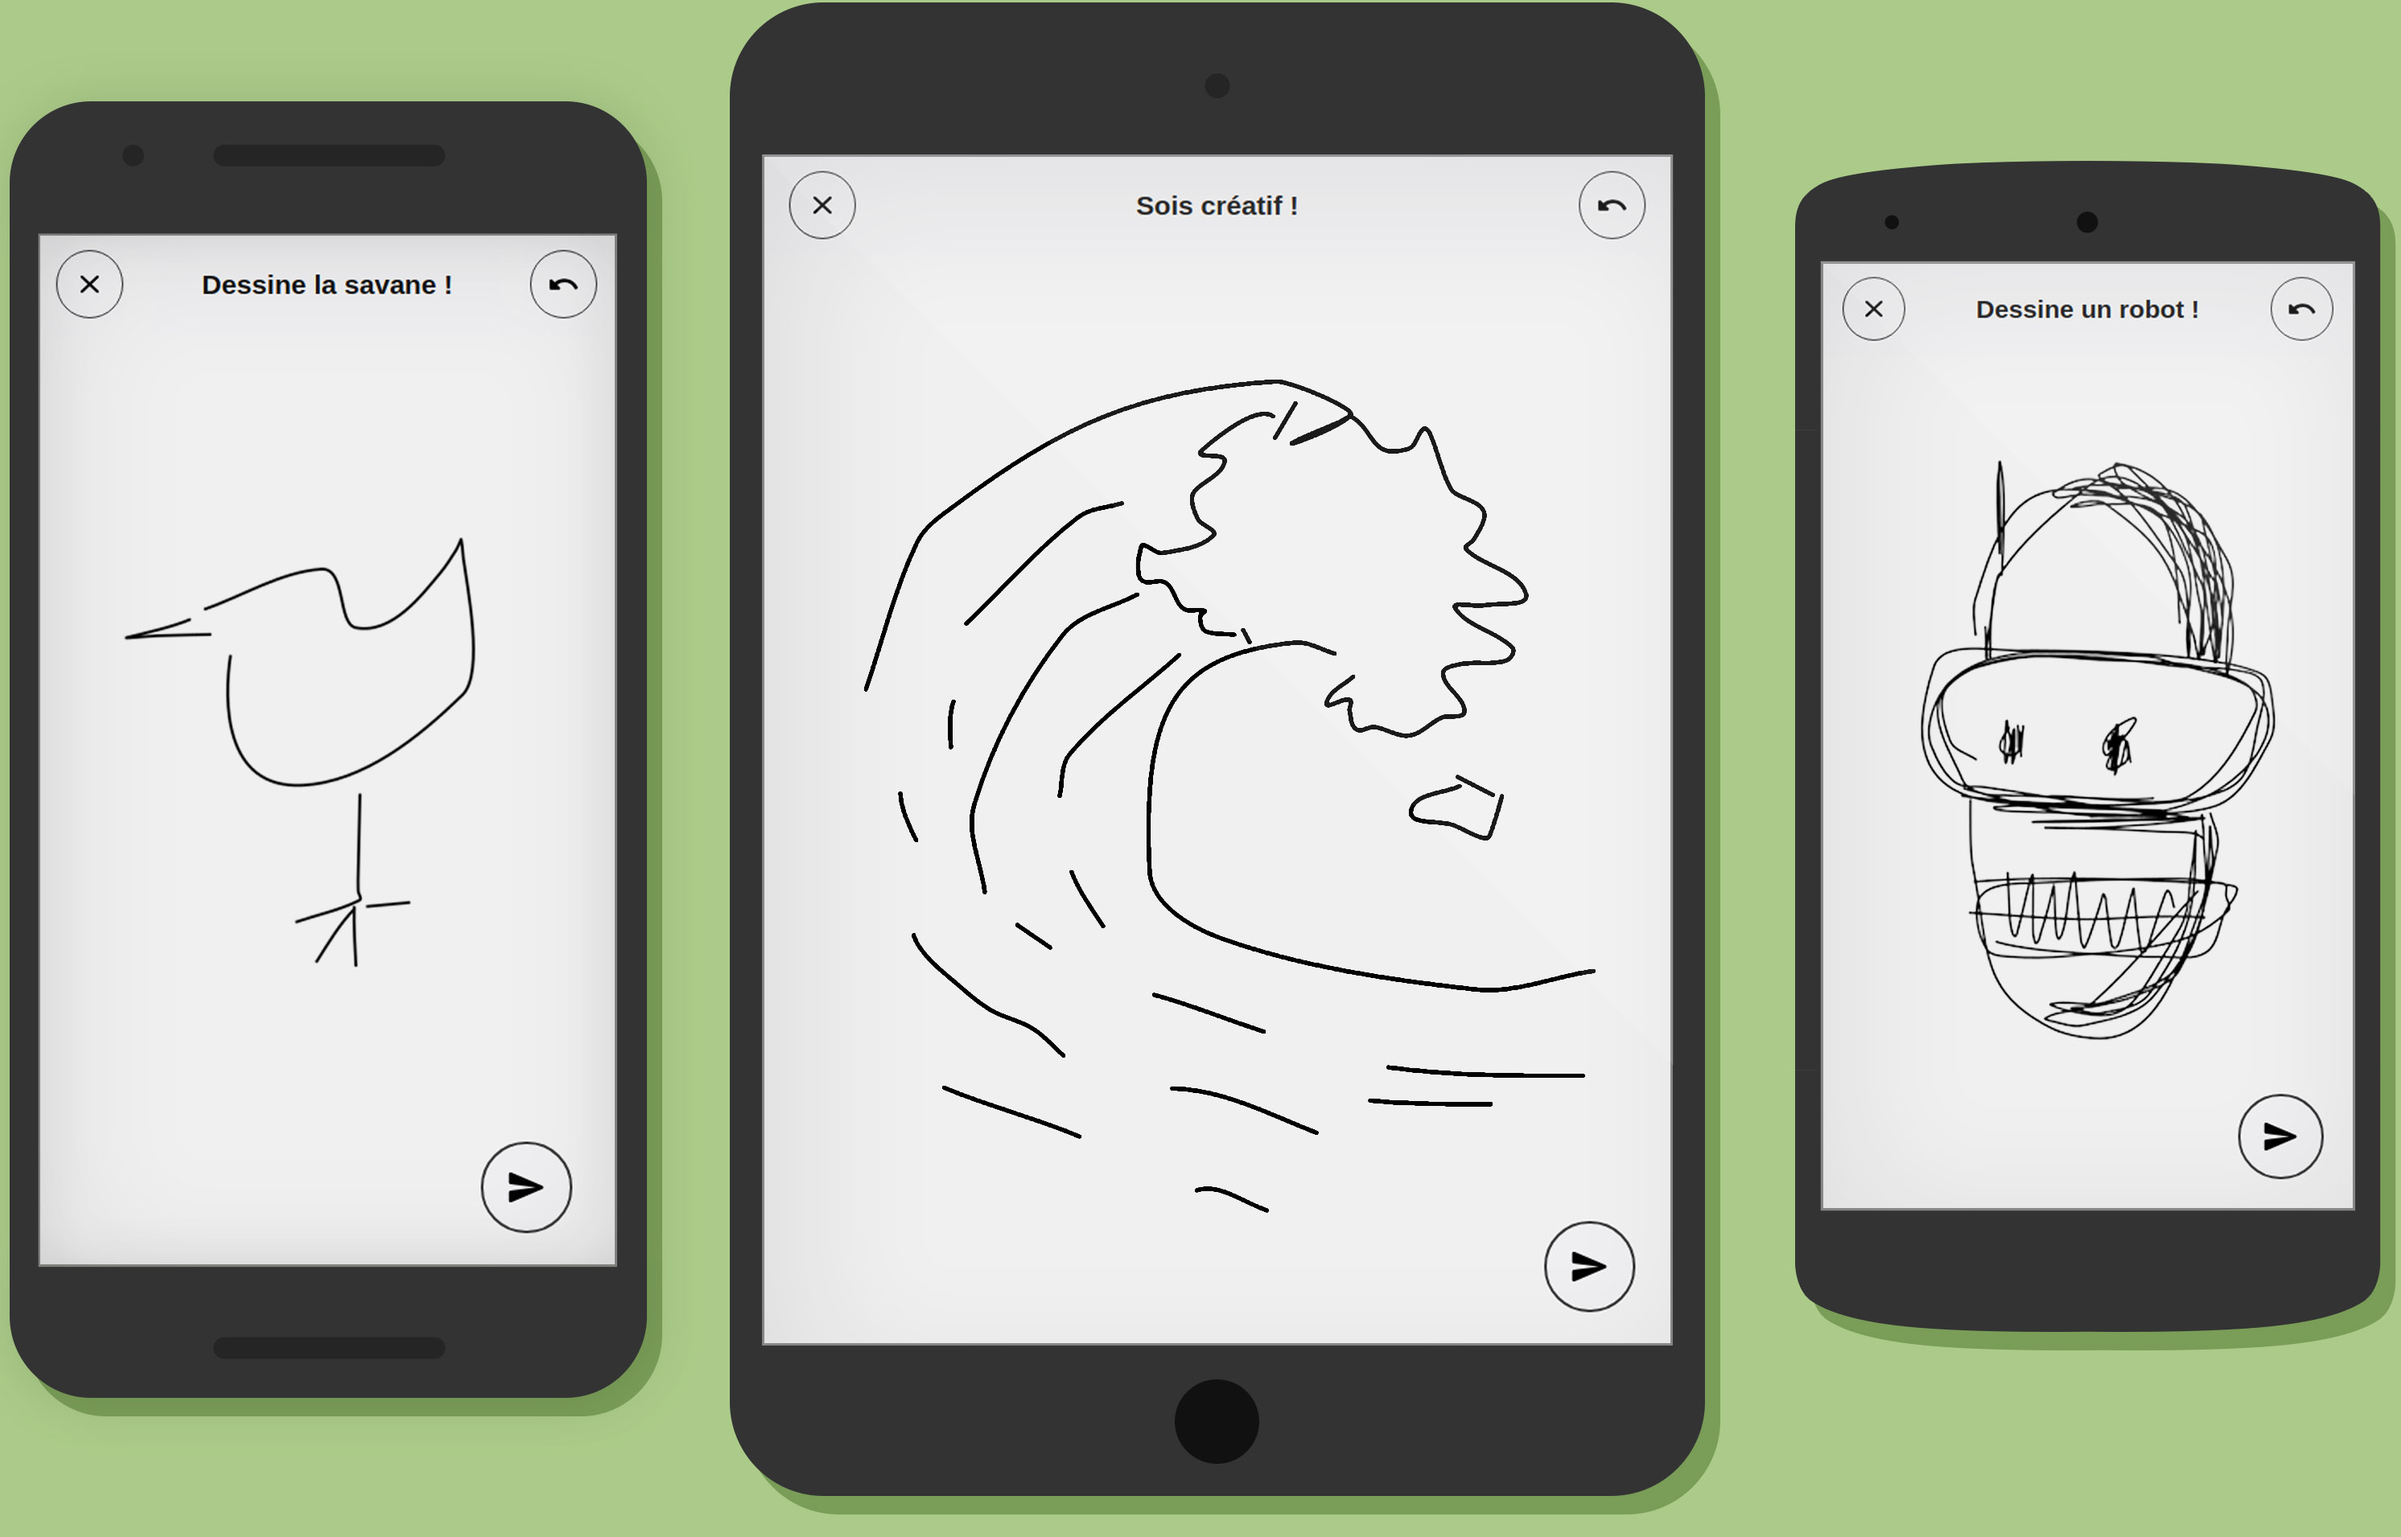
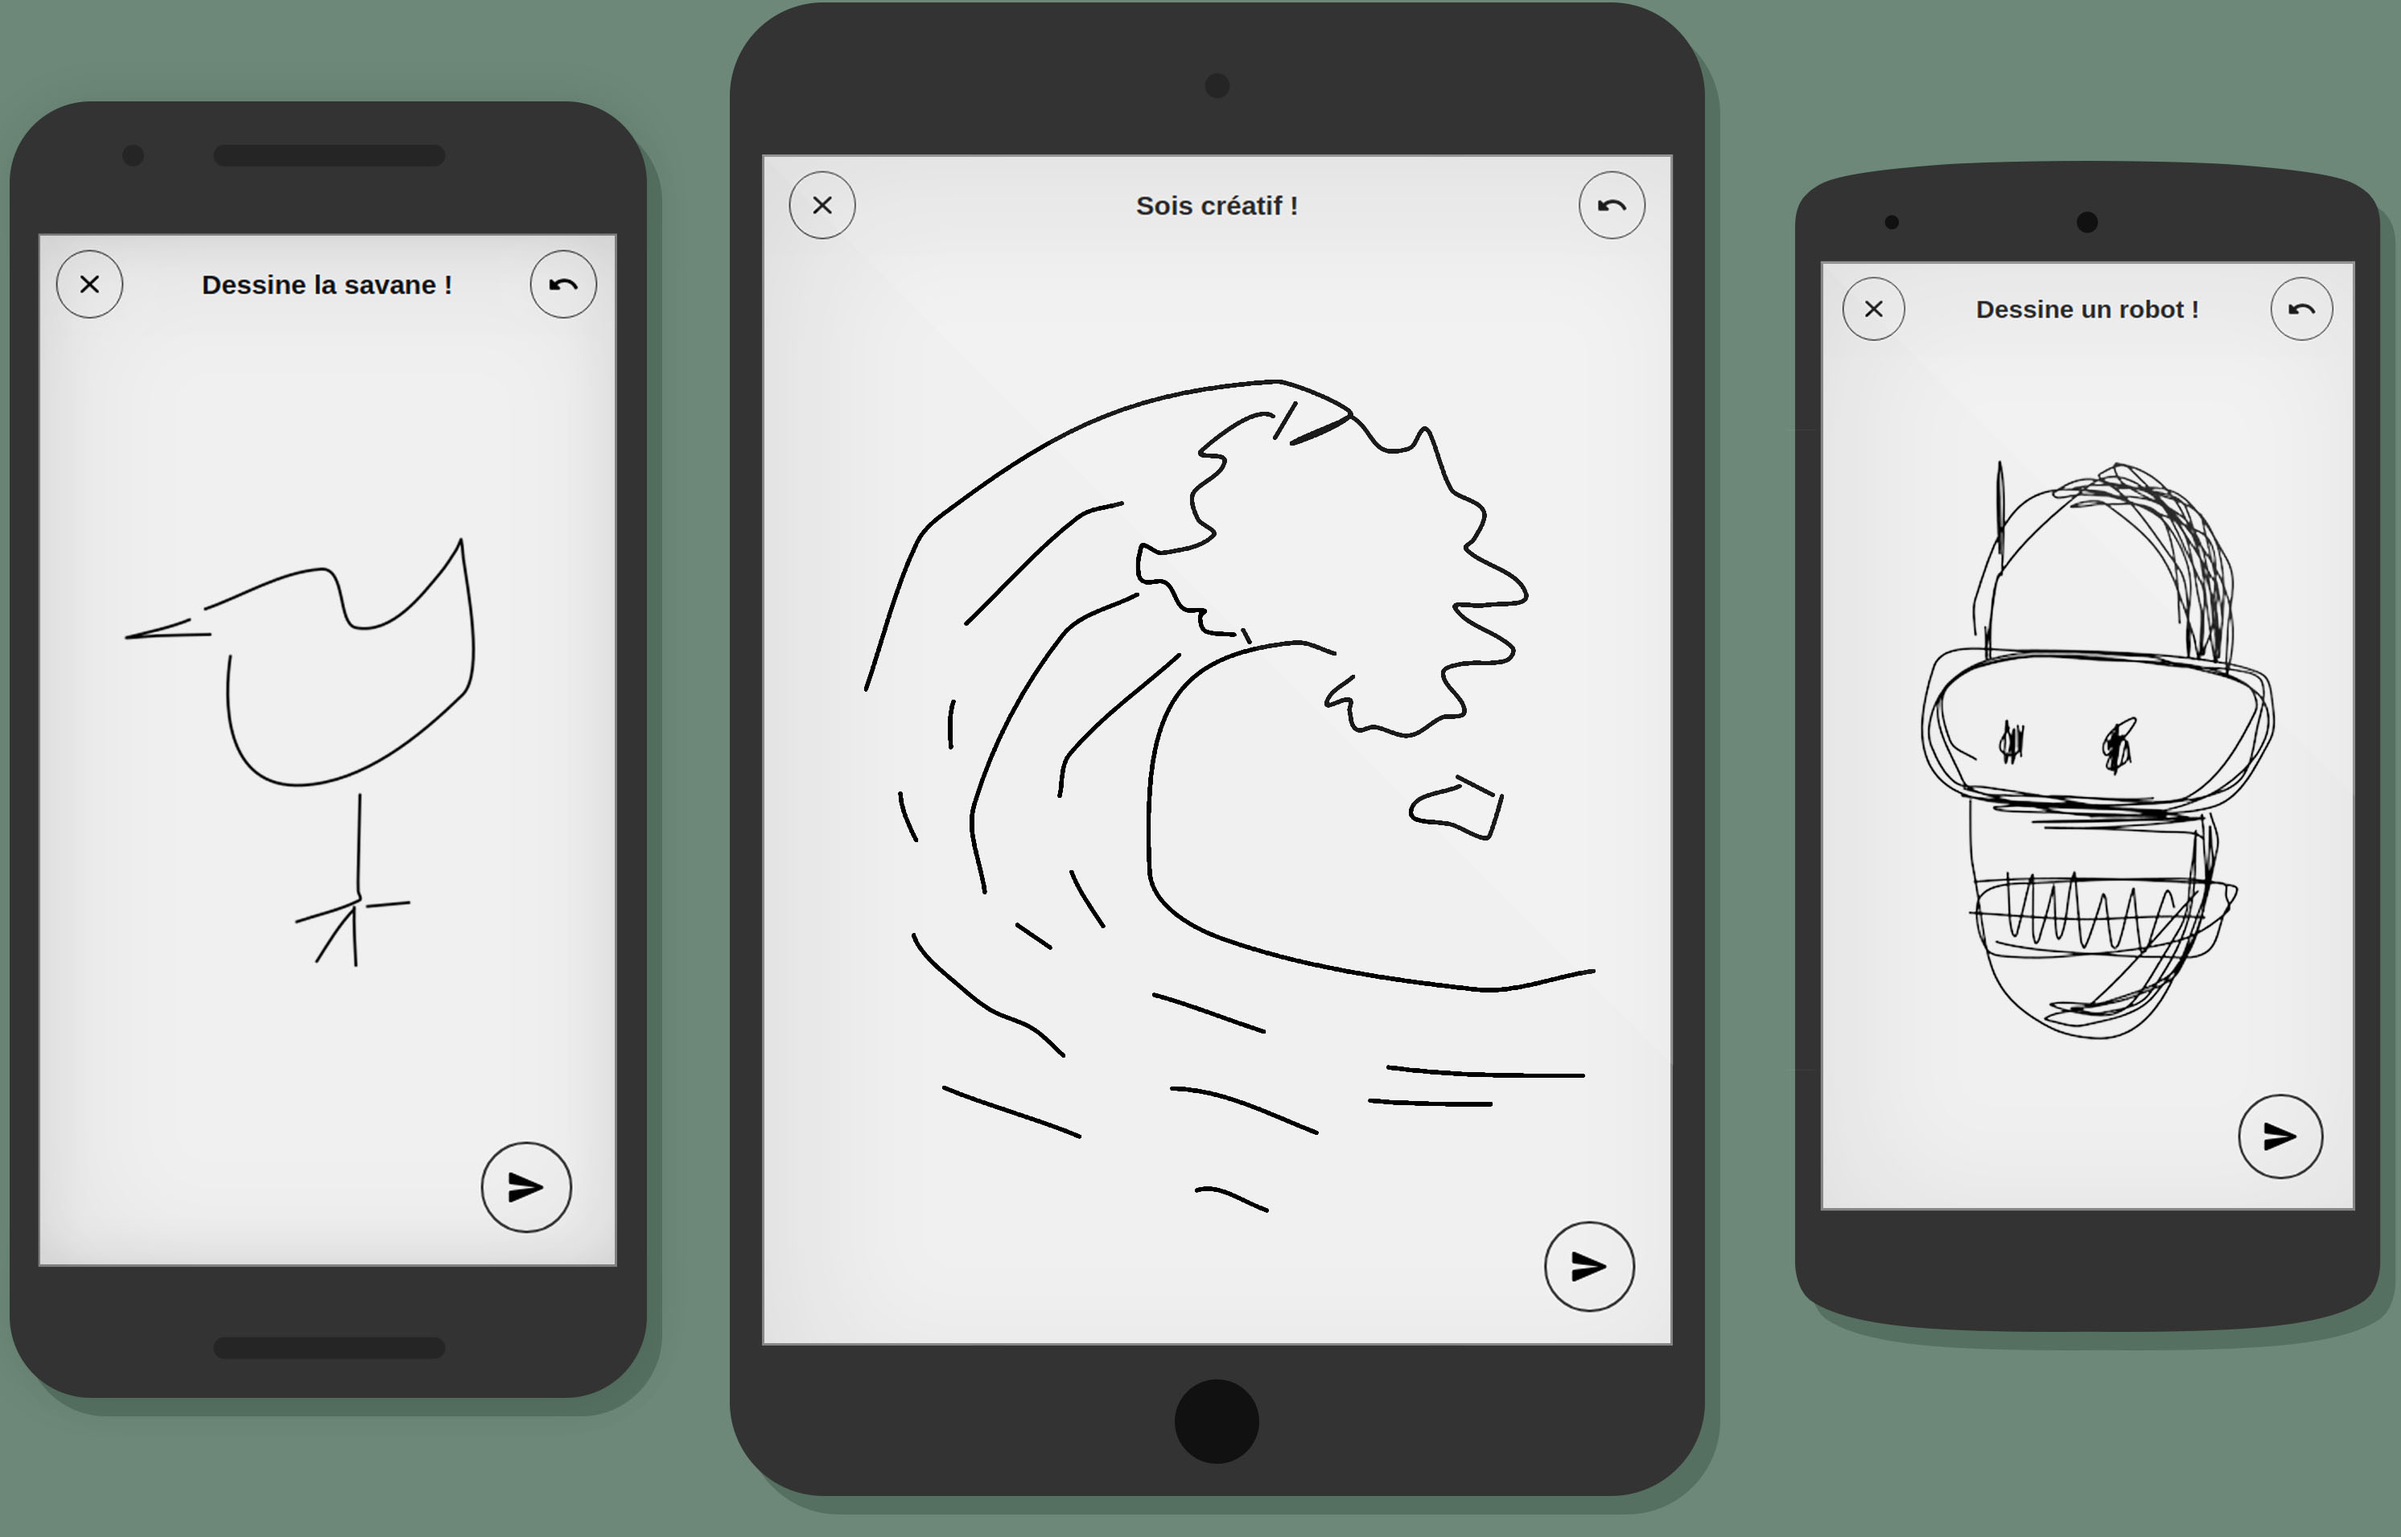
New : color scheme & small layouts

Changed region(s): [[0.0, 0.0, 1.0, 1.0]]

diff --git a/src/pages/index.scss b/src/pages/index.scss
@@ -1,6 +1,17 @@
 @import './../components/styles';
 
 $darkColor: black;
+.BasicWhiteBack {
+  background-color: rgb(240, 240, 240);
+}
+
+.ModernGreenBack {
+  background-color: $modernGreen;
+}
+
+.ModernGreenText {
+  color: $modernGreen;
+}
 
 .ResponsiveContainer {
   display: flex;
@@ -212,7 +223,7 @@ $darkColor: black;
       h2 {
         font-size: 2em;
         font-weight: 600;
-        color: $accentColor;
+        color: $modernGreenAccent;
       }
 
       p {
@@ -276,8 +287,8 @@ $darkColor: black;
         margin: 1em;
       }
       @include breakpoint(normal) {
-        min-width: 20em;
-        min-height: 10em;
+        min-width: 12em;
+        min-height: 12em;
         margin: 3em;
       }
     }
@@ -357,23 +368,36 @@ $darkColor: black;
   }
 
   &.White {
-    font-size: 2em;
+    font-size: 1.5em;
 
+    @include breakpoint(small) {
+      font-size: 1.2em;
+    }
+    font-weight: 400;
+    background-color: transparent;
+    border-bottom: solid 2px $accentColorIdle;
+    color: black;
+    margin: auto;
+    margin-bottom: 0.5em;
+
+    &.Strong {
+      border-bottom: solid 4px black;
+      font-size: 2em;
+      @include breakpoint(small) {
+        font-size: 1.8em;
+      }
+      font-weight: 400;
+    }
+    
+  }
+
+  &.Accent {
+    border-bottom: solid 4px black;
+    font-size: 2em;
     @include breakpoint(small) {
       font-size: 1.8em;
     }
     font-weight: 400;
-    background-color: transparent;
-    border-bottom: solid 2px black;
-    color: black;
-    margin: auto;
-    margin-bottom: 0.5em;
-  }
-
-  &.Accent {
-    background-color: #abcb89;
-    border-radius: 5px;
-    color: white;
   }
 }
 
@@ -384,7 +408,7 @@ $darkColor: black;
 }
 
 .WordsCloud {
-  $shadowColor: #799d59; // Darker green (more sat, less bright)
+  $shadowColor: $accentColorIdle; // Darker green (more sat, less bright)
   display: flex;
   flex-wrap: wrap;
   justify-content: center;
@@ -564,14 +588,15 @@ $darkColor: black;
     text-decoration: none;
     border: none;
     background-color: transparent;
-    background-color: $accentColor;
+    background-color: $modernGreen;
     color: white;
     @include basicTransition();
     &:hover {
       outline: 0;
       @include basicTransition();
       cursor: pointer;
-      background-color: $accentLight;
+      background-color: $modernGreenAccent;
+      // background-color: $accentLight;
     }
 
     &:visited {

diff --git a/src/pages/about.js b/src/pages/about.js
@@ -41,7 +41,7 @@ export default function AboutPage({ data, pageContext: { locale }, location }) {
           </div>
 
           <div className="FullPageContainer">
-            <h2 className="Punchline Accent">{LOCAL.features}</h2>
+            <h2 className="Punchline White Strong">{LOCAL.features}</h2>
           </div>
 
           <div className="FullPageContainer">
@@ -74,7 +74,7 @@ export default function AboutPage({ data, pageContext: { locale }, location }) {
           <div
           className={'FullPageContainer'}
         >
-          <h3 className="Punchline White">{LOCAL.useCasesTitle}</h3>
+          <h3 className="Punchline White Strong">{LOCAL.useCasesTitle}</h3>
                 <div className="WordsCloud">
                   <>
                     {LOCAL.useCases.map(wordCloud => {
@@ -88,8 +88,8 @@ export default function AboutPage({ data, pageContext: { locale }, location }) {
             <div className={'ResponsiveContainer'}>
               <div className={'Inside'}>
                 <div className="ShowcasePart Column">
-                  <div className={'Text Centered'}>
-                    <h2 className="Punchline White" style={{ color: 'black' }}>
+                  <div>
+                    <h2 className="Punchline White Strong">
                       {LOCAL.clientsTitle}
                     </h2>
                   </div>

diff --git a/src/layout/BasicPage.scss b/src/layout/BasicPage.scss
@@ -98,7 +98,7 @@
       margin-top: 4rem;
       display: flex;
       flex-wrap: wrap;
-      filter: grayscale(1);
+      //filter: grayscale(1);
 
       justify-content: space-between;
       @include breakpoint(small) {
@@ -209,9 +209,10 @@
     font-weight: 400;
   }
   h4 {
-    font-size: 1.3em;
+    font-size: 1.6em;
     font-weight: 600;
-    margin-bottom: 0.4em;
+    margin: 0.6;
+    margin-bottom: 1em;
   }
   h5 {
     margin: 0;
@@ -245,30 +246,30 @@
   background-position: center center;
 
   .overlay {
-    background-color: $accentLight;
+    background-color: $modernGreen;
     @include breakpoint(normal) {
-      padding: 7rem;
+      padding: 4rem;
     }
     @include breakpoint(small) {
-      padding: 4rem;
+      padding: 2rem;
       padding-left: 1rem;
       padding-right: 1rem;
     }
 
     &Smaller {
       @include breakpoint(normal) {
-        padding: 7rem;
+        padding: 4rem;
       }
       @include breakpoint(small) {
-        padding: 3rem;
+        padding: 1rem;
       }
     }
 
     .punchline {
       animation: fadein 1s;
-      font-size: 4rem;
+      font-size: 3rem;
       @include breakpoint(small) {
-        font-size: 3rem;
+        font-size: 2rem;
       }
       padding-bottom: 1rem;
       color: white;

diff --git a/src/components/wip/BottomBar/BottomBar.scss b/src/components/wip/BottomBar/BottomBar.scss
@@ -4,7 +4,7 @@
 .BottomBar {
 
   background-color: #383838;
-  color: $accentColor;
+  color: $modernGreenDarkMode;
   font-weight: 600;
   text-align: left;
   align-items: center;
@@ -39,15 +39,15 @@
   a {
     margin-right: 1rem;
     text-align: center;
-    $underlineColor: $accentColor;
+    $underlineColor: $modernGreenDarkMode;
     text-decoration: none;
     border: none;
     background-color: transparent;
-    border: solid 4px $accentColor;
+    border: solid 4px $modernGreenDarkMode;
     color: white;
     @include basicTransition();
     &:hover {
-      background-color: $accentColor;
+      background-color: $modernGreenDarkMode;
       outline: 0;
       @include basicTransition();
     }
@@ -65,10 +65,10 @@
 
     @keyframes shadow-pulse2 {
       0% {
-        box-shadow: 0 0 0 0px rgba($accentColor, 1);
+        box-shadow: 0 0 0 0px rgba($modernGreenDarkMode, 1);
       }
       100% {
-        box-shadow: 0 0 0 8px rgba($accentColor, 0);
+        box-shadow: 0 0 0 8px rgba($modernGreenDarkMode, 0);
       }
     }
 

diff --git a/src/pages/index.js b/src/pages/index.js
@@ -72,8 +72,7 @@ export default function Index({ data, pageContext: { locale }, location }) {
         </div>
 
         <div
-          className={'ResponsiveContainer'}
-          style={{ backgroundColor: '#aac989' }}
+          className={'ResponsiveContainer ModernGreenBack'}
         >
           <div className={'Inside'}>
             <div className="ShowcasePart">
@@ -94,7 +93,6 @@ export default function Index({ data, pageContext: { locale }, location }) {
 
         <div
           className={'ResponsiveContainer'}
-          style={{ backgroundColor: '#f4f4f4' }}
         >
           <div className={'Inside'}>
             <div className="ShowcasePart Column">
@@ -120,7 +118,7 @@ export default function Index({ data, pageContext: { locale }, location }) {
           </div>
         </div>
 
-        <div className={'ResponsiveContainer'}>
+        <div className={'ResponsiveContainer BasicWhiteBack'}>
           <div className={'Inside'}>
             <div className="ShowcasePart">
               <div className={'Text'}>

diff --git a/src/layout/BlogPost.js b/src/layout/BlogPost.js
@@ -49,14 +49,10 @@ export default function Template({ data, location, pageContext }) {
           <h2 className="subtext">
             <p>
               <strong>{post.frontmatter.subtitle} </strong>
-            </p>
-          </h2>
-          <h2 className="subtext">
-            <p>
-              <em>
+             // <em>
                 {new Date(post.frontmatter.date).toLocaleDateString(
                   post.frontmatter.language,
-                  { year: 'numeric', month: 'long', day: 'numeric' }
+                  { year: 'numeric', month: 'long' }
                 )}
               </em>
             </p>

diff --git a/src/components/bitStyleOverride.scss b/src/components/bitStyleOverride.scss
@@ -1,7 +1,7 @@
 // Theme
 $blackLink: #4c4c4c;
-$backgroundColorForText: #fafafa;
-$backgroundColor: rgb(240, 240, 240);
+$backgroundColorForText: #F2EDE9;//rgb(240, 240, 240);
+$backgroundColor: #F2EDE9;
 
 
 $accentColor: #85b94f; //#aac989; //#4d9933;
@@ -13,3 +13,9 @@ $colorIdle: #919191;
 $colorUnselected: rgb(200,200,200);
 $colorHover: $accentColor;
 $navbarColor: $backgroundColor;
+
+$modernGreen: #6d8879;
+$modernGreenAccent:#3f9264;
+$accentColor: $modernGreenAccent;
+$accentColorIdle: $modernGreen;
+$modernGreenDarkMode: #39c678;

diff --git a/src/layout/MainLayout.js b/src/layout/MainLayout.js
@@ -50,7 +50,7 @@ export default function MainLayout({ children, language, location }) {
           {LOCAL.currentlyHappening}
           <br />
           <br />
-          <strong style={{ fontSize: '1.5em', color: '#85b94f' }}>
+          <strong className={'DarkModeTextAccent'} style={{ fontSize: '2em' }}>
             {eventName}
           </strong>
         </div>

diff --git a/src/layout/MainLayout.scss b/src/layout/MainLayout.scss
@@ -1,5 +1,9 @@
 @import '../components/styles';
 
+
+.DarkModeTextAccent {
+  color: $modernGreenDarkMode;
+}
 .CssGrid {
   &NavContentFooter {
     width: 100%;
@@ -80,7 +84,7 @@
   display: flex;
   flex-direction: column;
   align-items: stretch;
-  justify-content: space-between;
+  justify-content: space-around;
 
   transition: none;
   .Logo {

diff --git a/src/components/styles.scss b/src/components/styles.scss
@@ -1,1 +1,1 @@
-@import '../bits/styles/styles.scss'
+@import '../bits/styles/styles.scss';

diff --git a/src/pages/gallery/index.fr.md b/src/pages/gallery/index.fr.md
@@ -25,6 +25,9 @@ The Live Drawing Project est un project 100% lyonnais. Notre ville est notre lie
 <img src="lyon2019/b-63.jpg"/>
 <img src="lyon2019/b-1.jpg"/>
 <img src="chrd/CHRD-1.jpg"/>
+<img src="sb/SprayingBoard_7.jpg"/>
+<img src="sb/SprayingBoard_6.jpg"/>
+<img src="sb/SprayingBoard_8.jpg"/>
 </photo-grid>
 
 ## GLOW Winter Festival

diff --git a/src/pages/gallery/index.md b/src/pages/gallery/index.md
@@ -24,6 +24,9 @@ Our hometown is our place of experimentation where we test new ways to inspire p
 <img src="lyon2019/b-63.jpg"/>
 <img src="lyon2019/b-1.jpg"/>
 <img src="chrd/CHRD-1.jpg"/>
+<img src="sb/SprayingBoard_7.jpg"/>
+<img src="sb/SprayingBoard_6.jpg"/>
+<img src="sb/SprayingBoard_8.jpg"/>
 </photo-grid>
 
 ## GLOW Winter Festival
